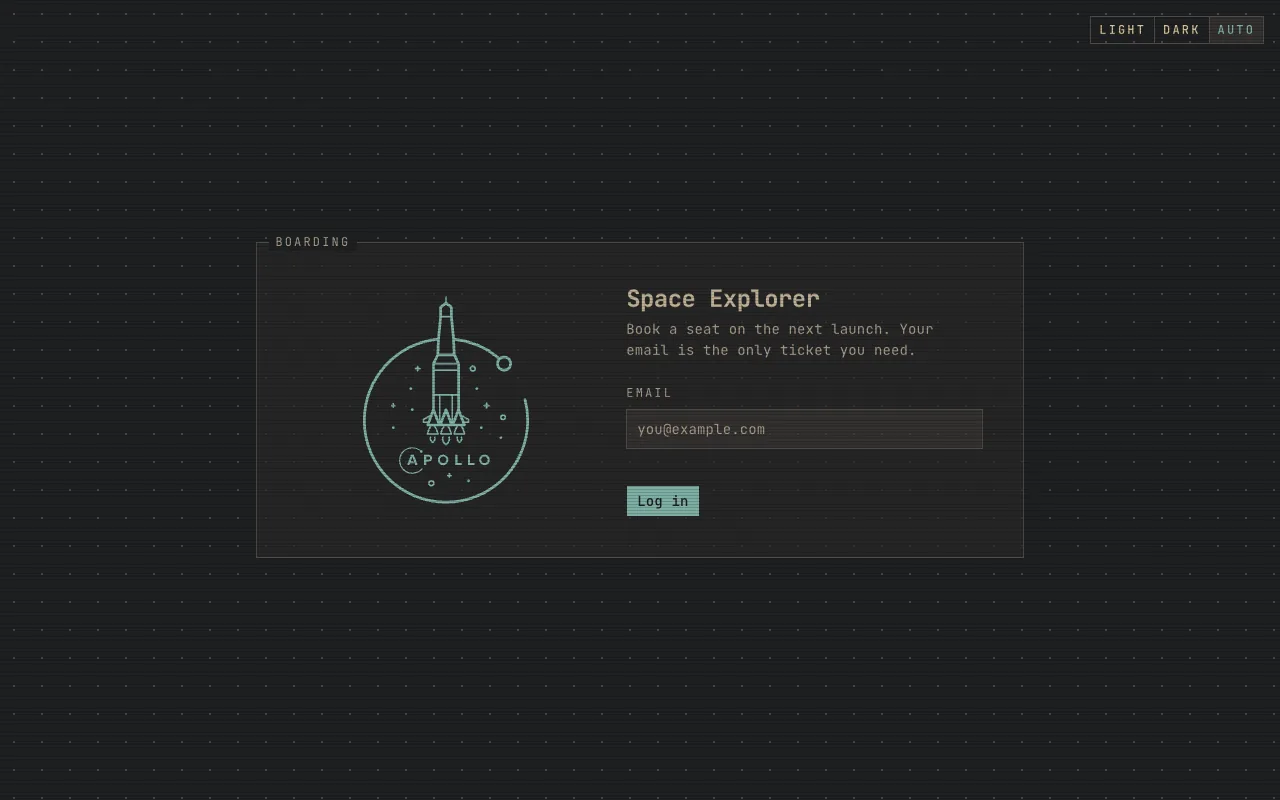
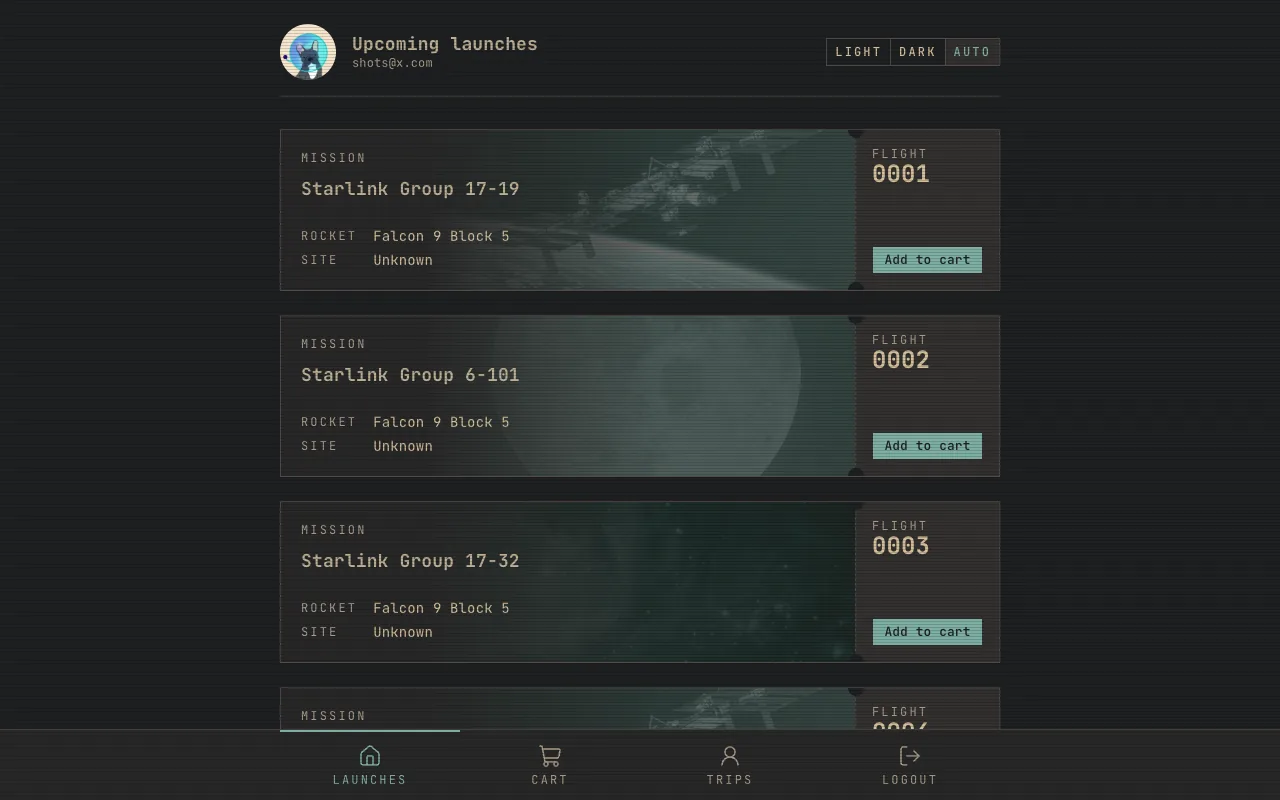
🎨 bytes: the space explorer peek shows its launches
- step 13 of FRM-257: /launches at 1280, dark, logged in as the throwaway shots@x.com user dima named
- ticket: FRM-257

Agent: coder · Claude Opus 5.5

diff --git a/README.md b/README.md
@@ -39,7 +39,7 @@
 
 [live](https://space-explorer-ui.vercel.app) | [source](apps/space-explorer-ui) | [api](https://space-explorer-api.up.railway.app/) | [api source](apps/space-explorer-api)
 
-<details><summary>peek</summary><img src="assets/apps/space-explorer-ui.webp" width="100%" alt="space explorer: the boarding card with an apollo rocket and an email login, dark theme"></details>
+<details><summary>peek</summary><img src="assets/apps/space-explorer-ui.webp" width="100%" alt="space explorer: upcoming launches as mission cards, each with its rocket, site and flight number, dark theme"></details>
 
 <br clear="all">
 
